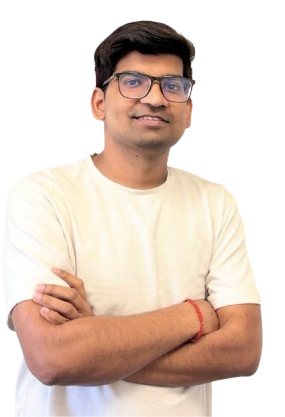
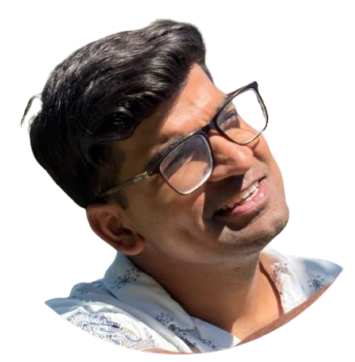
main-picture

diff --git a/components/MainPhoto.tsx b/components/MainPhoto.tsx
@@ -6,10 +6,80 @@ import mainPhoto from '@/public/mainPhoto.png'
 
 const MainPhoto = () => {
     return (
-        <div className='w-full h-full relative'>
-            <motion.div initial={{ opacity: 0 }} animate={{ opacity: 1 }} transition={{ delay: 1, duration: 0.4, ease: 'easeIn' }} className='flex items-center justify-center w-full h-full'>
-                <div className='w-[298px] h-[298px] xl:w-[498px] xl:h-[498px] rounded-full mix-blend-lighten'>
-                    <Image src={mainPhoto} alt='Sid' fill priority quality={100} className = 'object-contain' />
+        <div className='w-full h-full relative mb-10'>
+            <motion.div 
+                initial={{ opacity: 0 }} 
+                animate={{ opacity: 1 }} 
+                transition={{ delay: 0.3, duration: 0.4, ease: 'easeIn' }} 
+                className='flex items-center justify-center w-full h-full relative'
+            >
+                {/* Animated Circle Spots */}
+                <motion.div
+                    animate={{ 
+                        rotate: 360,
+                        scale: [1, 1.1, 1]
+                    }}
+                    transition={{ 
+                        rotate: { duration: 20, repeat: Infinity, ease: "linear" },
+                        scale: { duration: 4, repeat: Infinity, ease: "easeInOut" }
+                    }}
+                    className='absolute inset-0 w-[350px] h-[350px] xl:w-[520px] xl:h-[520px]'
+                >
+                    {/* Top */}
+                    <div className='absolute top-0 left-1/2 transform -translate-x-1/2 w-3 h-3 bg-accent-foreground/60 rounded-full'></div>
+                    {/* Top Right */}
+                    <div className='absolute top-8 right-8 w-2 h-2 bg-accent-foreground/40 rounded-full'></div>
+                    {/* Right */}
+                    <div className='absolute top-1/2 right-0 transform -translate-y-1/2 w-4 h-4 bg-accent-foreground/70 rounded-full'></div>
+                    {/* Bottom Right */}
+                    <div className='absolute bottom-12 right-16 w-2.5 h-2.5 bg-accent-foreground/50 rounded-full'></div>
+                    {/* Bottom */}
+                    <div className='absolute bottom-0 left-1/2 transform -translate-x-1/2 w-3.5 h-3.5 bg-accent-foreground/60 rounded-full'></div>
+                    {/* Bottom Left */}
+                    <div className='absolute bottom-8 left-8 w-2 h-2 bg-accent-foreground/45 rounded-full'></div>
+                    {/* Left */}
+                    <div className='absolute top-1/2 left-0 transform -translate-y-1/2 w-3 h-3 bg-accent-foreground/65 rounded-full'></div>
+                    {/* Top Left */}
+                    <div className='absolute top-16 left-12 w-2.5 h-2.5 bg-accent-foreground/55 rounded-full'></div>
+                </motion.div>
+
+                {/* Additional floating spots */}
+                <motion.div
+                    animate={{ 
+                        y: [-10, 10, -10],
+                        x: [-5, 5, -5]
+                    }}
+                    transition={{ 
+                        duration: 6, 
+                        repeat: Infinity, 
+                        ease: "easeInOut" 
+                    }}
+                    className='absolute top-4 right-20 w-1.5 h-1.5 bg-accent-foreground/30 rounded-full'
+                ></motion.div>
+
+                <motion.div
+                    animate={{ 
+                        y: [10, -10, 10],
+                        x: [5, -5, 5]
+                    }}
+                    transition={{ 
+                        duration: 8, 
+                        repeat: Infinity, 
+                        ease: "easeInOut" 
+                    }}
+                    className='absolute bottom-6 left-24 w-1.5 h-1.5 bg-accent-foreground/35 rounded-full'
+                ></motion.div>
+
+                {/* Main photo container */}
+                <div className='w-[298px] h-[298px] xl:w-[450px] xl:h-[450px] rounded-full relative'>
+                    <Image 
+                        src={mainPhoto} 
+                        alt='Sid' 
+                        fill 
+                        priority 
+                        quality={100} 
+                        className='object-contain rounded-full' 
+                    />
                 </div>
             </motion.div>
         </div>

diff --git a/app/page.tsx b/app/page.tsx
@@ -29,26 +29,27 @@ export default async function Home() {
       <main className="flex flex-col min-h-screen items-center justify-between px-4 py-12 sm:px-8 md:px-16 lg:px-30 text-foreground">
         <div className="container mx-auto h-full px-10">
             <div className="flex flex-col xl:flex-row items-center justify-between xl:pt:8 xl:pb-24">
-              <div className="text-center xl:text-left">
+              <div className="text-center xl:text-left order-2 xl:order-none">
                 <span className="text-xl sm:text-2xl md:text-3xl lg:text-4xl font-semibold">
                   Writer
                 </span>
                 <h1 className="text-3xl sm:text-4xl md:text-5xl lg:text-6xl mt-4 mb-4">
                   Hey, I'm <br /> <span className="text-accent-foreground">Siddhartha Baniya</span>
                 </h1>
-                <p className="max-w-[500px] mb-9">
-                  Lorem ipsum dolor, sit amet consectetur adipisicing elit. Cupiditate tempore laboriosam esse sit nesciunt natus, delectus dolorem eum inventore eius cumque explicabo nostrum, eaque voluptatem minima expedita dolores quas! Autem?
+                <p className="max-w-[600px] mb-9">
+                  Lorem ipsum dolor sit amet, consectetur adipisicing elit. Accusamus ut ea atque iste laudantium illo explicabo commodi optio quod aspernatur voluptatibus unde sit officiis dolores ullam earum necessitatibus tenetur iure voluptatum fugiat id reprehenderit culpa, cupiditate autem? Officia sit illo ipsum iusto, qui animi possimus?
                 </p>
-                <div className="flex flex-row items-center  gap-5 mb-9">
-                <Button className="bg-accent-foreground text-background hover:bg-transparent hover:text-accent-foreground border-1 hover:border-accent-foreground rounded-4xl p-6">
-                  <Link href={"/about"}>About Me</Link>
-                </Button>
-                <Button variant='outline'className="hover:bg-accent-foreground text-accent-foreground hover:text-white border-1 border-accent-foreground rounded-4xl p-6">
-                  <Link href={"/contact"}>Contact Me</Link>
-                </Button>
+                
+                <div className="flex flex-row items-center justify-center xl:justify-start gap-5 mb-9">
+                  <Button className="bg-accent-foreground text-background hover:bg-transparent hover:text-accent-foreground border-1 hover:border-accent-foreground rounded-4xl p-6">
+                    <Link href={"/about"}>About Me</Link>
+                  </Button>
+                  <Button variant='outline' className="hover:bg-accent-foreground text-accent-foreground hover:text-white border-1 border-accent-foreground rounded-4xl p-6">
+                    <Link href={"/contact"}>Contact Me</Link>
+                  </Button>
+                </div>
               </div>
-              </div>
-              <div>
+              <div className="order-1 xl:order-none mb-10 xl:mb-0">
                 <MainPhoto />
               </div>
             </div>

diff --git a/components/Header.tsx b/components/Header.tsx
@@ -15,8 +15,19 @@ const Header = () => {
   const { theme, setTheme } = useTheme();
   const [mounted, setMounted] = React.useState(false)
   const [isOpen, setIsOpen] = React.useState(false)
+  const [isScrolled, setIsScrolled] = React.useState(false)
 
   React.useEffect(() => setMounted(true), [])
+
+  React.useEffect(() => {
+    const handleScroll = () => {
+      const scrollTop = window.scrollY
+      setIsScrolled(scrollTop > 50)
+    }
+
+    window.addEventListener('scroll', handleScroll)
+    return () => window.removeEventListener('scroll', handleScroll)
+  }, [])
 
   const NavLinks = () => (
     <>
@@ -60,17 +71,27 @@ const Header = () => {
   )
 
   return (
-    <header className='w-full p-4 px-6 lg:p-15 lg:px-30 flex justify-between items-center border-1'>
+    <header className={`sticky top-0 min-h-[64px)] will-change-[padding] w-full px-6 lg:px-30 flex justify-between items-center bg-background z-50 transition-all duration-100 ease-in-out overflow-x-hidden ${
+      isScrolled 
+        ? 'py-4 xl:py-4 shadow-md' 
+        : 'py-4 xl:py-6'
+    }`}>
       <Logo />
 
       {/* Desktop Navigation */}
-      <nav className='hidden lg:flex items-center gap-6 text-lg font-semibold border-primary border-2 p-3 px-5 rounded-4xl'>
+      <nav className={`hidden lg:flex items-center gap-6 font-semibold border-primary border-2 rounded-4xl transition-all duration-300 ease-in-out ${
+        isScrolled 
+          ? 'p-2 px-4 text-base gap-4' 
+          : 'p-3 px-5 text-lg gap-6'
+      }`}>
         <NavLinks />
         <ThemeToggle />
       </nav>
 
       {/* Desktop Social Links */}
-      <div className='hidden lg:flex items-center gap-4 p-6'>
+      <div className={`hidden lg:flex items-center transition-all duration-300 ease-in-out ${
+        isScrolled ? 'p-3' : 'p-6'
+      }`}>
         <SocialLinks />
       </div>
 
